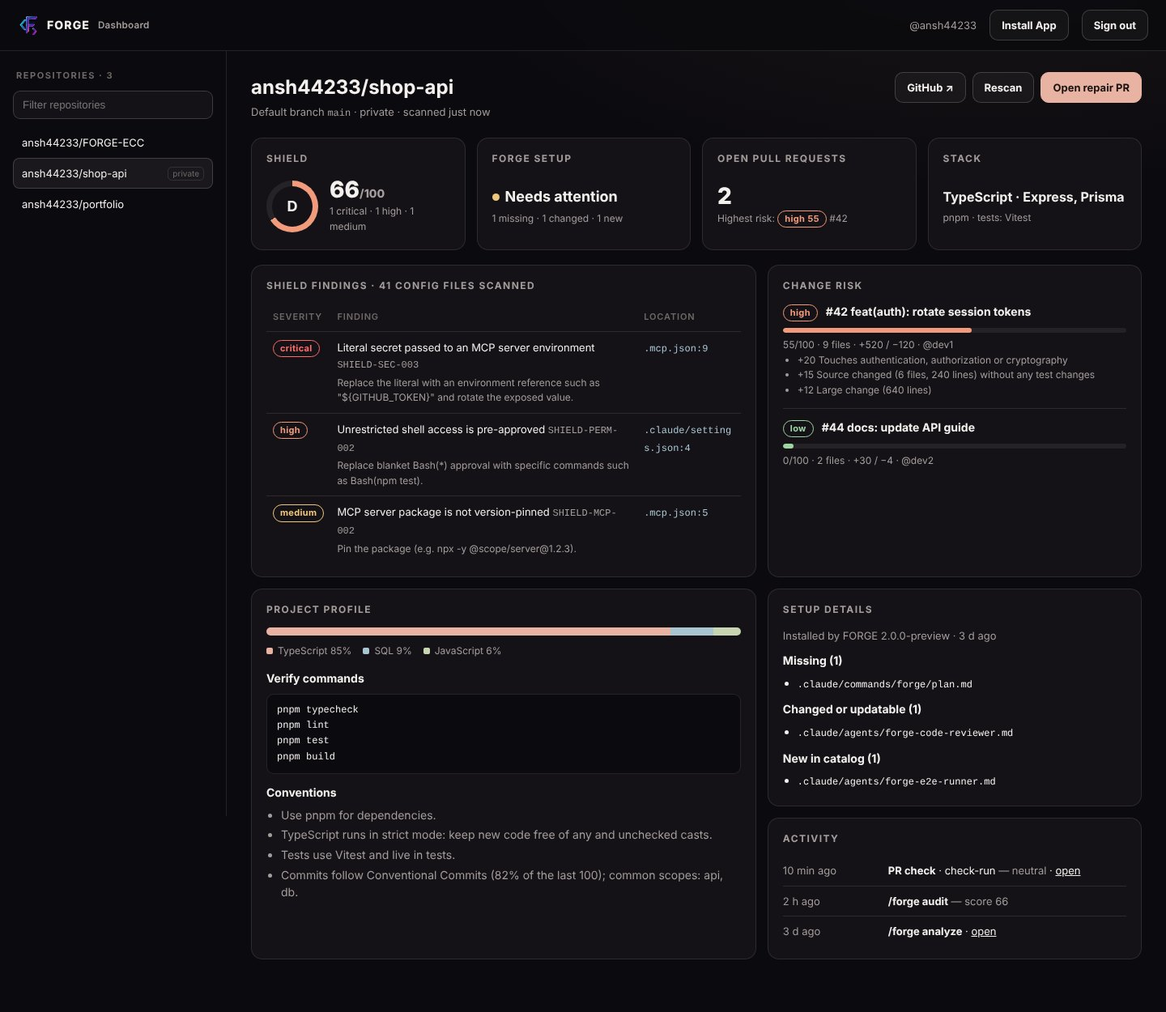
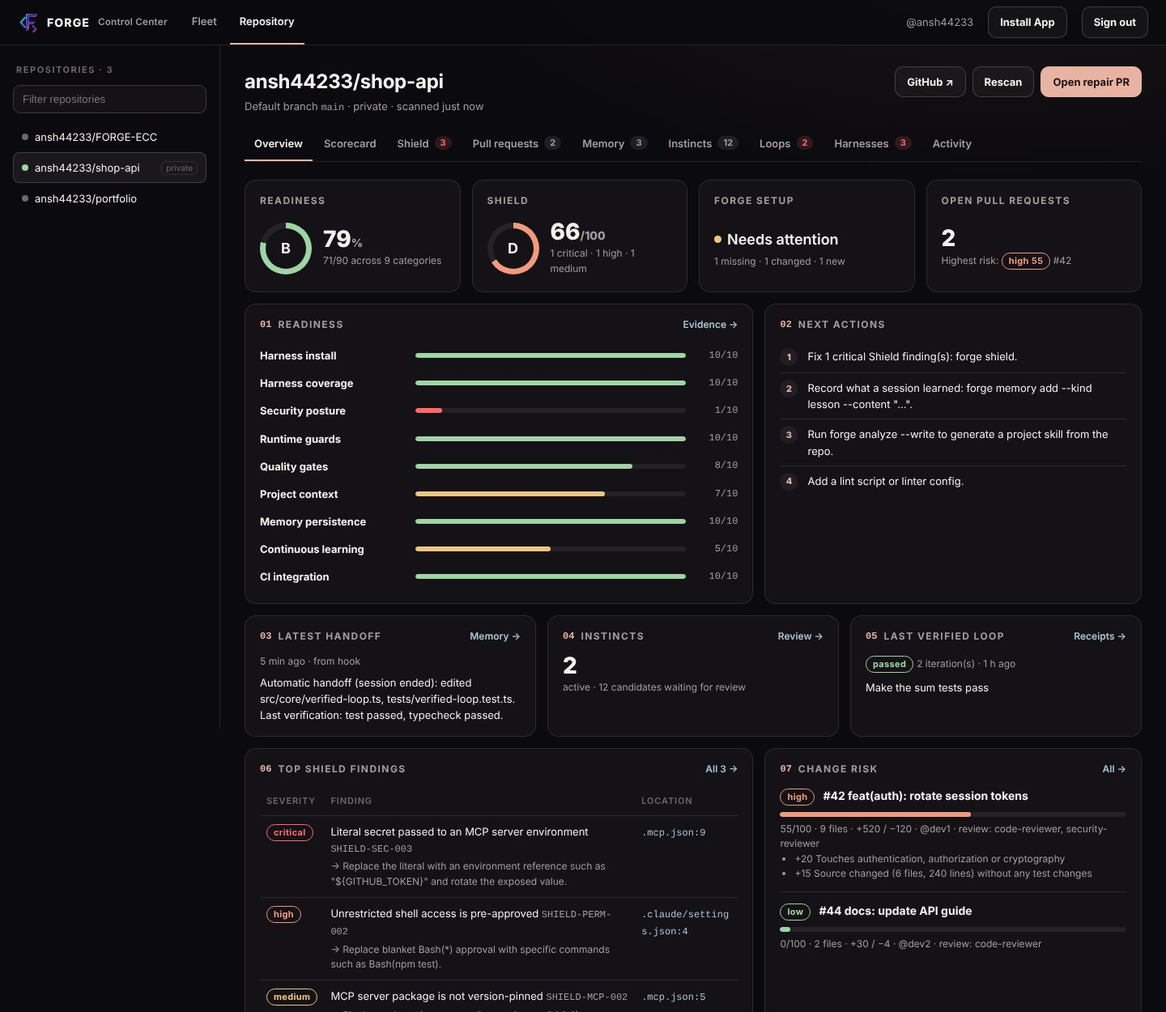
feat(v3): landing page refresh for FORGE 3.0
- Floating rounded nav with a live GitHub star count.
- Live GitHub stars, forks, release downloads and latest release under
  the catalog stats (falls back to placeholders when the API is
  unavailable).
- New 'Learn, loop and prove' section with real scorecard, instinct and
  verified-loop output.
- 'Verified, not claimed' comparison of typical agent setups vs FORGE.
- Ten harnesses in the tool row and platforms grid; Shield and Guard
  examples show the new rules.
- New Control Center screenshot, alternating section backgrounds and a
  light pricing section.

Claude-Session: https://claude.ai/code/session_017br8UhEu5cmXZumuQXKyPZ

diff --git a/public/index.html b/public/index.html
@@ -20,9 +20,12 @@ code,.mono{font-family:var(--mono)}
 .wrap{max-width:var(--max);margin:0 auto;padding:0 28px}
 
 /* Nav */
-.nav{position:fixed;inset:0 0 auto 0;z-index:20;transition:background .25s,border-color .25s;border-bottom:1px solid transparent}
-.nav.scrolled{background:rgba(11,10,14,.82);backdrop-filter:blur(14px);border-color:var(--line)}
-.nav .wrap{display:flex;align-items:center;gap:22px;height:68px}
+.nav{position:fixed;inset:14px 0 auto 0;z-index:20;pointer-events:none}
+.nav .wrap{display:flex;align-items:center;gap:22px;height:58px;pointer-events:auto;border:1px solid var(--line);border-radius:16px;background:rgba(14,12,17,.62);backdrop-filter:blur(16px) saturate(1.2);-webkit-backdrop-filter:blur(16px) saturate(1.2);transition:background .25s,border-color .25s,box-shadow .25s;max-width:calc(var(--max) - 0px);padding:0 10px 0 18px}
+.nav.scrolled .wrap{background:rgba(14,12,17,.86);border-color:var(--line2);box-shadow:0 12px 40px rgba(0,0,0,.35)}
+.stars{display:inline-flex;align-items:center;gap:7px}
+.stars svg{width:15px;height:15px}
+.stars b{font-variant-numeric:tabular-nums}
 .brand{display:flex;align-items:center;gap:10px;font-weight:800;letter-spacing:.12em;font-size:15px}
 .brand img{width:28px;height:28px}
 .links{display:flex;gap:22px;margin-left:auto;font-size:14px;color:var(--muted)}
@@ -69,11 +72,37 @@ i.logo span{display:none}
 .stat{border:1px solid var(--line);border-radius:14px;padding:18px 18px 16px;background:rgba(19,17,22,.76);backdrop-filter:blur(6px)}
 .stat b{display:block;font-size:30px;letter-spacing:-.02em;line-height:1.1}
 .stat span{font-size:12.5px;color:var(--muted)}
+.stat span a{text-decoration:underline;text-decoration-color:var(--line2);text-underline-offset:3px}
+.stats.live{grid-template-columns:repeat(4,minmax(0,1fr));margin-top:12px}
+.stats.live b{font-variant-numeric:tabular-nums}
 .footnote{font-size:12px;color:var(--faint);margin-top:12px}
 
 /* Sections */
 section.block{padding:96px 0}
 section.block+section.block{border-top:1px solid var(--line)}
+section.block.alt{background:linear-gradient(180deg,#100e14,#0d0c11)}
+section.block.light{background:#f1e9e4;color:#1b1416;border-top:0}
+section.block.light .label{color:#6d5c58}
+section.block.light h2 span{color:#b5644d}
+section.block.light .plan{background:#fffaf7;border-color:rgba(27,20,22,.12);color:#1b1416}
+section.block.light .plan .muted,section.block.light .plan li,section.block.light .price small{color:#5e504d}
+section.block.light .plan.featured{border-color:#c9775f;box-shadow:0 0 0 1px rgba(201,119,95,.3) inset,0 20px 50px rgba(120,60,40,.12)}
+section.block.light .plan li:before{color:#3f8f4a}
+section.block.light .btn{border-color:rgba(27,20,22,.2);background:transparent;color:#1b1416}
+section.block.light .btn:hover{border-color:#c9775f;background:rgba(201,119,95,.08)}
+section.block.light .btn.primary{background:#1b1416;color:#f8efe9;border-color:#1b1416}
+section.block.light .badge{color:#2f6f86;border-color:rgba(47,111,134,.4)}
+.vs{width:100%;border-collapse:collapse;font-size:15px}
+.vs th{text-align:left;font-size:12px;letter-spacing:.08em;text-transform:uppercase;color:var(--faint);font-weight:650;padding:0 18px 14px}
+.vs td{padding:18px;border-top:1px solid var(--line);vertical-align:top}
+.vs td:first-child{font-weight:650;width:26%}
+.vs td:nth-child(2){color:var(--muted);width:30%}
+.vs td:nth-child(3) b{color:var(--ink)}
+.vs td:nth-child(3){color:var(--muted)}
+.vs .yes{display:inline-grid;place-items:center;width:20px;height:20px;border-radius:50%;background:rgba(159,213,164,.14);color:var(--ok);font-size:12px;margin-right:8px;vertical-align:-3px}
+.vs .no{display:inline-grid;place-items:center;width:20px;height:20px;border-radius:50%;background:rgba(242,155,124,.12);color:var(--bad);font-size:12px;margin-right:8px;vertical-align:-3px}
+.cards3{display:grid;grid-template-columns:repeat(3,minmax(0,1fr));gap:18px}
+.cards3 .term{min-height:290px;font-size:12.5px}
 .label{font-size:13px;font-weight:600;color:var(--muted);margin:0 0 12px}
 h2{font-size:clamp(32px,4vw,50px);line-height:1.08;letter-spacing:-.03em;font-weight:720;margin:0 0 40px;max-width:820px}
 h2 span{color:var(--accent)}
@@ -177,9 +206,9 @@ footer{border-top:1px solid var(--line);padding:46px 0 60px;margin-top:40px;font
 .reveal.in{opacity:1;transform:none}
 @media (prefers-reduced-motion:reduce){.reveal{opacity:1;transform:none;transition:none}html{scroll-behavior:auto}}
 
-@media (max-width:1080px){.stats{grid-template-columns:repeat(3,minmax(0,1fr))}.grid4{grid-template-columns:repeat(2,minmax(0,1fr))}.showcase,.split{grid-template-columns:1fr}.platforms{grid-template-columns:repeat(2,minmax(0,1fr))}}
-@media (max-width:860px){.links,.navcta .hide-sm{display:none}.menu{display:inline-flex}.nav.open .links{display:flex;position:absolute;top:68px;left:0;right:0;flex-direction:column;gap:0;padding:8px 28px 18px;background:rgba(11,10,14,.96);border-bottom:1px solid var(--line)}.nav.open .links a{padding:10px 0}.navcta{margin-left:0}.cols3,.cards2,.pricing{grid-template-columns:1fr}.hero-art{inset:0;opacity:.35;-webkit-mask-image:linear-gradient(180deg,#000 40%,transparent 100%);mask-image:linear-gradient(180deg,#000 40%,transparent 100%)}.foot{grid-template-columns:1fr 1fr}}
-@media (max-width:560px){.wrap{padding:0 18px}.hero{padding-top:118px}.stats{grid-template-columns:repeat(2,minmax(0,1fr))}.platforms,.grid4{grid-template-columns:1fr}.final{padding:40px 24px}section.block{padding:72px 0}.navcta .btn:not(.primary){display:none}}
+@media (max-width:1080px){.cards3{grid-template-columns:1fr}.stats{grid-template-columns:repeat(3,minmax(0,1fr))}.grid4{grid-template-columns:repeat(2,minmax(0,1fr))}.showcase,.split{grid-template-columns:1fr}.platforms{grid-template-columns:repeat(2,minmax(0,1fr))}}
+@media (max-width:860px){.links,.navcta .hide-sm{display:none}.menu{display:inline-flex}.nav.open .links{display:flex;position:absolute;top:66px;left:28px;right:28px;border-radius:14px;border:1px solid var(--line2);flex-direction:column;gap:0;padding:8px 28px 18px;background:rgba(11,10,14,.96);border-bottom:1px solid var(--line)}.nav.open .links a{padding:10px 0}.navcta{margin-left:0}.cols3,.cards2,.pricing{grid-template-columns:1fr}.hero-art{inset:0;opacity:.35;-webkit-mask-image:linear-gradient(180deg,#000 40%,transparent 100%);mask-image:linear-gradient(180deg,#000 40%,transparent 100%)}.foot{grid-template-columns:1fr 1fr}}
+@media (max-width:560px){.stats.live{grid-template-columns:repeat(2,minmax(0,1fr))}.vs td,.vs th{padding-left:8px;padding-right:8px}.vs td:nth-child(2),.vs th:nth-child(2){display:none}.nav .wrap{margin:0 12px}.wrap{padding:0 18px}.hero{padding-top:118px}.stats{grid-template-columns:repeat(2,minmax(0,1fr))}.platforms,.grid4{grid-template-columns:1fr}.final{padding:40px 24px}section.block{padding:72px 0}.navcta .btn:not(.primary){display:none}}
 </style>
 </head>
 <body>
@@ -189,14 +218,14 @@ footer{border-top:1px solid var(--line);padding:46px 0 60px;margin-top:40px;font
     <a class="brand" href="/" aria-label="FORGE home"><img src="/forge-mark.svg" alt=""> FORGE</a>
     <nav class="links" aria-label="Primary">
       <a href="#github-app">GitHub App</a>
-      <a href="#toolkit">Toolkit</a>
+      <a href="#loop">Learn &amp; loop</a>
       <a href="#shield">Shield</a>
       <a href="#platforms">Platforms</a>
+      <a href="#why">Why FORGE</a>
       <a href="#pricing">Pricing</a>
-      <a href="#faq">FAQ</a>
     </nav>
     <div class="navcta">
-      <a class="btn sm hide-sm" href="https://github.com/ansh44233/FORGE-ECC">GitHub ↗</a>
+      <a class="btn sm hide-sm stars" href="https://github.com/ansh44233/FORGE-ECC" aria-label="FORGE on GitHub"><svg viewBox="0 0 16 16" fill="currentColor" aria-hidden="true"><path d="M8 .2a8 8 0 0 0-2.5 15.6c.4 0 .5-.2.5-.4v-1.5c-2.2.5-2.7-1-2.7-1-.4-.9-.9-1.2-.9-1.2-.7-.5.1-.5.1-.5.8.1 1.2.8 1.2.8.7 1.3 1.9.9 2.3.7.1-.5.3-.9.5-1.1-1.8-.2-3.6-.9-3.6-4 0-.9.3-1.6.8-2.1-.1-.2-.4-1 .1-2.1 0 0 .7-.2 2.2.8a7.6 7.6 0 0 1 4 0c1.5-1 2.2-.8 2.2-.8.4 1.1.2 1.9.1 2.1.5.6.8 1.3.8 2.1 0 3.1-1.9 3.7-3.6 3.9.3.3.6.8.6 1.5v2.2c0 .2.1.5.6.4A8 8 0 0 0 8 .2"/></svg><b data-live="stars">GitHub</b></a>
       <a class="btn sm hide-sm" href="/app/">Dashboard</a>
       <a class="btn sm primary" href="/api/github/install">Get App</a>
     </div>
@@ -219,13 +248,18 @@ footer{border-top:1px solid var(--line);padding:46px 0 60px;margin-top:40px;font
     <div class="cmd"><span class="p">$</span><code id="install-cmd">npm install -g https://github.com/ansh44233/FORGE-ECC/releases/download/v3.0.0/forge-engineering-workbench-3.0.0.tgz &amp;&amp; forge install . --hooks</code><button class="copy" id="copy" type="button">Copy</button></div>
     <div class="tools">
       <p>Install FORGE in your coding tool</p>
-      <div class="toolrow">
+      <div class="toolrow" id="toolrow">
         <span class="tool"><i><img data-logo src="/assets/logos/claude-code.svg" alt=""><span class="glyph"><svg viewBox="0 0 24 24" fill="none" stroke="currentColor" stroke-width="1.8" stroke-linecap="round" stroke-linejoin="round" aria-hidden="true"><rect x="3" y="4.5" width="18" height="15" rx="3"/><path d="M7.5 10l3 2.5-3 2.5"/><path d="M12.5 15.5h4"/></svg></span></i>Claude Code</span>
         <span class="tool"><i><img data-logo src="/assets/logos/codex.svg" alt=""><span class="glyph"><svg viewBox="0 0 24 24" fill="none" stroke="currentColor" stroke-width="1.8" stroke-linecap="round" stroke-linejoin="round" aria-hidden="true"><path d="M9 4.5c-2 0-3 1-3 3v2c0 1.3-.8 2.5-2 2.5 1.2 0 2 1.2 2 2.5v2c0 2 1 3 3 3"/><path d="M15 4.5c2 0 3 1 3 3v2c0 1.3.8 2.5 2 2.5-1.2 0-2 1.2-2 2.5v2c0 2-1 3-3 3"/></svg></span></i>Codex</span>
         <span class="tool"><i><img data-logo src="/assets/logos/cursor.svg" alt=""><span class="glyph"><svg viewBox="0 0 24 24" fill="none" stroke="currentColor" stroke-width="1.8" stroke-linecap="round" stroke-linejoin="round" aria-hidden="true"><path d="M5.5 3.5l13 7.2-5.6 1.6 3.4 6.2-2.6 1.4-3.4-6.2-4.8 3.6z"/></svg></span></i>Cursor</span>
         <span class="tool"><i><img data-logo src="/assets/logos/opencode.svg" alt=""><span class="glyph"><svg viewBox="0 0 24 24" fill="none" stroke="currentColor" stroke-width="1.8" stroke-linecap="round" stroke-linejoin="round" aria-hidden="true"><path d="M8 7l-5 5 5 5"/><path d="M16 7l5 5-5 5"/><path d="M13.5 4.5l-3 15"/></svg></span></i>OpenCode</span>
         <span class="tool"><i><img data-logo src="/assets/logos/gemini.svg" alt=""><span class="glyph"><svg viewBox="0 0 24 24" fill="none" stroke="currentColor" stroke-width="1.8" stroke-linecap="round" stroke-linejoin="round" aria-hidden="true"><rect x="3" y="4.5" width="18" height="15" rx="3"/><path d="M3 9h18"/><circle cx="6.3" cy="6.8" r=".4" fill="currentColor"/><circle cx="8.6" cy="6.8" r=".4" fill="currentColor"/><path d="M7 13.5h3.5M7 16h6"/></svg></span></i>Gemini CLI</span>
         <span class="tool"><i><img data-logo src="/assets/logos/github.svg" alt=""><span class="glyph"><svg viewBox="0 0 24 24" fill="none" stroke="currentColor" stroke-width="1.8" stroke-linecap="round" stroke-linejoin="round" aria-hidden="true"><circle cx="6.5" cy="5.5" r="2.2"/><circle cx="6.5" cy="18.5" r="2.2"/><circle cx="17.5" cy="8.5" r="2.2"/><path d="M6.5 7.7v8.6"/><path d="M17.5 10.7c0 3.5-4 3.8-9.4 5.9"/></svg></span></i>GitHub</span>
+        <span class="tool"><i><span class="glyph"><svg viewBox="0 0 24 24" aria-hidden="true"><text x="12" y="16.5" text-anchor="middle" font-family="Inter,system-ui,sans-serif" font-size="12" font-weight="800" fill="currentColor">Co</text></svg></span></i>Copilot</span>
+        <span class="tool"><i><span class="glyph"><svg viewBox="0 0 24 24" aria-hidden="true"><text x="12" y="16.5" text-anchor="middle" font-family="Inter,system-ui,sans-serif" font-size="12" font-weight="800" fill="currentColor">W</text></svg></span></i>Windsurf</span>
+        <span class="tool"><i><span class="glyph"><svg viewBox="0 0 24 24" aria-hidden="true"><text x="12" y="16.5" text-anchor="middle" font-family="Inter,system-ui,sans-serif" font-size="12" font-weight="800" fill="currentColor">K</text></svg></span></i>Kiro</span>
+        <span class="tool"><i><span class="glyph"><svg viewBox="0 0 24 24" aria-hidden="true"><text x="12" y="16.5" text-anchor="middle" font-family="Inter,system-ui,sans-serif" font-size="12" font-weight="800" fill="currentColor">Cl</text></svg></span></i>Cline</span>
+        <span class="tool"><i><span class="glyph"><svg viewBox="0 0 24 24" aria-hidden="true"><text x="12" y="16.5" text-anchor="middle" font-family="Inter,system-ui,sans-serif" font-size="12" font-weight="800" fill="currentColor">Z</text></svg></span></i>Zed</span>
       </div>
     </div>
     <div class="stats">
@@ -236,7 +270,13 @@ footer{border-top:1px solid var(--line);padding:46px 0 60px;margin-top:40px;font
       <div class="stat"><b>60</b><span>Shield security rules</span></div>
       <div class="stat"><b>10</b><span>Harnesses, one install</span></div>
     </div>
-    <p class="footnote">Counts come from the FORGE v3 catalog and rule set in the open-source repository.</p>
+    <div class="stats live" aria-live="polite">
+      <div class="stat"><b data-live="stars">—</b><span><a href="https://github.com/ansh44233/FORGE-ECC/stargazers">GitHub stars</a> ↗</span></div>
+      <div class="stat"><b data-live="forks">—</b><span><a href="https://github.com/ansh44233/FORGE-ECC/forks">GitHub forks</a> ↗</span></div>
+      <div class="stat"><b data-live="downloads">—</b><span><a href="https://github.com/ansh44233/FORGE-ECC/releases">Release package downloads</a> ↗</span></div>
+      <div class="stat"><b data-live="release">—</b><span><a href="https://github.com/ansh44233/FORGE-ECC/releases/latest">Latest release</a> ↗</span></div>
+    </div>
+    <p class="footnote">The first row comes from the FORGE v3 catalog and rule set. The second row loads live from the GitHub API.</p>
   </div>
 </section>
 
@@ -250,7 +290,7 @@ footer{border-top:1px solid var(--line);padding:46px 0 60px;margin-top:40px;font
           <div class="frame-bar"><i></i><i></i><i></i><span>forge-ecc.vercel.app/app</span></div>
           <img src="/assets/dashboard-preview.jpg" alt="FORGE dashboard showing a Shield score, setup health, pull request risk and project profile" loading="lazy" width="1440" height="860">
         </div>
-        <p class="caption">Hosted dashboard · shown with sample data</p>
+        <p class="caption">FORGE Control Center · readiness, Shield, memory, instincts and loop receipts · sample data</p>
       </div>
       <div class="side reveal">
         <div class="icon"><img src="/forge-mark.svg" alt=""></div>
@@ -262,6 +302,7 @@ footer{border-top:1px solid var(--line);padding:46px 0 60px;margin-top:40px;font
           <li><code>/forge audit</code><span>Shield report</span></li>
           <li><code>/forge risk</code><span>PR risk score</span></li>
           <li><code>/forge doctor</code><span>Setup health</span></li>
+          <li><code>/app</code><span>Control Center for every repo</span></li>
         </ul>
         <a class="btn primary" href="/api/github/install">Install the GitHub App ↗</a>
         <p class="note">Commands run only for collaborators with write access. FORGE reads file lists, manifests, commit subjects and agent configuration — not your source code.</p>
@@ -300,6 +341,72 @@ footer{border-top:1px solid var(--line);padding:46px 0 60px;margin-top:40px;font
   </div>
 </section>
 
+<section class="block alt" id="loop">
+  <div class="wrap">
+    <p class="label reveal">New in 3.0</p>
+    <h2 class="reveal">Learn, loop <span>and prove.</span></h2>
+    <div class="cards3">
+      <article class="card reveal">
+        <div class="term" aria-label="Example forge scorecard output">
+<div><span class="a">$</span> forge scorecard</div>
+<div>Scorecard <b>79</b>/90 · grade <b>B</b></div>
+<div class="c">──────────────────────────</div>
+<div>Harness install&nbsp;&nbsp;&nbsp; <span class="ok">██████████</span> 10</div>
+<div>Security posture&nbsp;&nbsp; <span class="ok">█████████</span><span class="c">░</span>&nbsp; 9</div>
+<div>Runtime guards&nbsp;&nbsp;&nbsp;&nbsp; <span class="ok">██████████</span> 10</div>
+<div>Project context&nbsp;&nbsp;&nbsp; <span class="w">███████</span><span class="c">░░░</span>&nbsp; 7</div>
+<div>Learning&nbsp;&nbsp;&nbsp;&nbsp;&nbsp;&nbsp;&nbsp;&nbsp;&nbsp;&nbsp; <span class="w">█████</span><span class="c">░░░░░</span>&nbsp; 5</div>
+<div class="c">→ 1. forge analyze --write</div>
+        </div>
+        <div class="body">
+          <p class="kicker">Scorecard</p>
+          <h3>A readiness score you can check.</h3>
+          <p class="muted">Nine categories from install health to CI. Every point cites its evidence, every missing point names the command that earns it, and <code>--min 75</code> turns it into a CI gate.</p>
+          <a class="more" href="https://github.com/ansh44233/FORGE-ECC#harness-scorecard-v3">How scoring works →</a>
+        </div>
+      </article>
+      <article class="card reveal">
+        <div class="term" aria-label="Example forge instinct learn output">
+<div><span class="a">$</span> forge instinct learn</div>
+<div>Learned <b>7</b> new instinct(s)</div>
+<div><span class="w">81%</span> When editing src/cli.ts:</div>
+<div>&nbsp;&nbsp;&nbsp;&nbsp;also review README.md <span class="c">(7 of 8 commits)</span></div>
+<div><span class="w">85%</span> When writing a commit message:</div>
+<div>&nbsp;&nbsp;&nbsp;&nbsp;use Conventional Commits with a scope</div>
+<div class="c">New instincts are candidates.</div>
+<div><span class="a">$</span> forge instinct promote inst-ff732cea60</div>
+<div><span class="ok">✓</span> Promoted 1 · reaches new sessions</div>
+        </div>
+        <div class="body">
+          <p class="kicker">Instincts</p>
+          <h3>Learning that waits for you.</h3>
+          <p class="muted">FORGE learns habits from git history, Guard denials and failed checks. Nothing reaches an agent until a person promotes it. <code>forge evolve</code> turns approved instincts into a skill.</p>
+          <a class="more" href="https://github.com/ansh44233/FORGE-ECC#instincts-and-continuous-learning-v3">Instincts →</a>
+        </div>
+      </article>
+      <article class="card reveal">
+        <div class="term" aria-label="Example forge loop output">
+<div><span class="a">$</span> forge loop start --check "npm test"</div>
+<div>baseline&nbsp; <span class="b">✗</span> npm test</div>
+<div>#1 claude <span class="ok">✓</span> npm test · 1 file</div>
+<div><span class="chip ok">passed</span>verified by FORGE</div>
+<div class="c">──────────────────────────</div>
+<div>#1 agent deleted tests/sum.test.js</div>
+<div>&nbsp;&nbsp;&nbsp;<span class="ok">✓</span> npm test <span class="c">(green, but…)</span></div>
+<div><span class="chip b">needs-review</span>checks were changed</div>
+        </div>
+        <div class="body">
+          <p class="kicker">Verified loop</p>
+          <h3>Done means FORGE checked.</h3>
+          <p class="muted">Runs Claude Code, Codex, Gemini or OpenCode until checks that FORGE runs itself pass. If the agent deletes or skips tests, or loosens configs or CI, the loop stops instead of counting a pass.</p>
+          <a class="more" href="https://github.com/ansh44233/FORGE-ECC#verified-loop-v3">Verified loop →</a>
+        </div>
+      </article>
+    </div>
+    <p class="note reveal">Output from real runs, shortened. The loop example uses test agents, including one written to delete a test.</p>
+  </div>
+</section>
+
 <section class="block" id="shield">
   <div class="wrap">
     <p class="label reveal">Shield &amp; Guard</p>
@@ -313,13 +420,13 @@ footer{border-top:1px solid var(--line);padding:46px 0 60px;margin-top:40px;font
 <div><span class="chip b">critical</span>Literal secret in MCP server env <span class="c">.mcp.json:9</span></div>
 <div><span class="chip b">high</span>Bash(*) pre-approved <span class="c">.claude/settings.json:4</span></div>
 <div><span class="chip w">medium</span>Unpinned npx MCP package <span class="c">.mcp.json:5</span></div>
-<div><span class="chip w">high</span>Hidden bidi Unicode in <span class="c">AGENTS.md:3</span></div>
+<div><span class="chip b">critical</span>AI agent workflow anyone can trigger <span class="c">agent.yml:8</span></div>
 <div class="c">→ forge shield . --fix  ·  --sarif shield.sarif  ·  --fail-on high</div>
         </div>
         <div class="body">
           <p class="kicker">FORGE Shield</p>
           <h3>Know what your agents can reach.</h3>
-          <p class="muted">Scores agent configuration 0–100 across permissions, hooks, MCP servers, hidden prompt injection, secrets and CI workflows. SARIF for code scanning, a CI gate and safe auto-fixes.</p>
+          <p class="muted">60 rules across 11 tools: permissions, hooks, MCP servers, hidden prompt injection, secrets and CI. It also flags AI-agent workflows that anyone can trigger from a comment. Outputs SARIF, a CI gate and safe auto-fixes.</p>
           <a class="more" href="https://github.com/ansh44233/FORGE-ECC#forge-shield--agent-harness-security-20">Shield rules →</a>
         </div>
       </article>
@@ -332,8 +439,10 @@ footer{border-top:1px solid var(--line);padding:46px 0 60px;margin-top:40px;font
 <div>&nbsp;&nbsp;<span class="chip w">ask</span>Force-push rewrites remote history</div>
 <div><span class="a">Edit</span> .claude/settings.json</div>
 <div>&nbsp;&nbsp;<span class="chip w">ask</span>Agent is changing its own permissions</div>
-<div><span class="a">Bash</span> npm test</div>
-<div>&nbsp;&nbsp;<span class="chip ok">allow</span></div>
+<div><span class="a">Bash</span> git commit --no-verify</div>
+<div>&nbsp;&nbsp;<span class="chip b">deny</span>Skips the repo's git hooks</div>
+<div><span class="a">Prompt</span> "deploy with sk-ant-…"</div>
+<div>&nbsp;&nbsp;<span class="chip b">block</span>Live credential in prompt</div>
         </div>
         <div class="body">
           <p class="kicker">FORGE Guard</p>
@@ -347,7 +456,7 @@ footer{border-top:1px solid var(--line);padding:46px 0 60px;margin-top:40px;font
   </div>
 </section>
 
-<section class="block" id="memory">
+<section class="block alt" id="memory">
   <div class="wrap split">
     <div class="reveal">
       <p class="label">Memory</p>
@@ -388,12 +497,17 @@ forge_memory_search · forge_memory_add</div>
       <div class="platform reveal"><div class="top"><i><img data-logo src="/assets/logos/opencode.svg" alt=""><span class="glyph"><svg viewBox="0 0 24 24" fill="none" stroke="currentColor" stroke-width="1.8" stroke-linecap="round" stroke-linejoin="round" aria-hidden="true"><path d="M8 7l-5 5 5 5"/><path d="M16 7l5 5-5 5"/><path d="M13.5 4.5l-3 15"/></svg></span></i><b>OpenCode</b><span class="type">Agents + commands</span></div><p>Subagents and commands in <code>.opencode/</code> plus <code>AGENTS.md</code></p></div>
       <div class="platform reveal"><div class="top"><i><img data-logo src="/assets/logos/gemini.svg" alt=""><span class="glyph"><svg viewBox="0 0 24 24" fill="none" stroke="currentColor" stroke-width="1.8" stroke-linecap="round" stroke-linejoin="round" aria-hidden="true"><rect x="3" y="4.5" width="18" height="15" rx="3"/><path d="M3 9h18"/><circle cx="6.3" cy="6.8" r=".4" fill="currentColor"/><circle cx="8.6" cy="6.8" r=".4" fill="currentColor"/><path d="M7 13.5h3.5M7 16h6"/></svg></span></i><b>Gemini CLI</b><span class="type">Commands</span></div><p>TOML commands in <code>.gemini/commands/forge/</code> and <code>GEMINI.md</code></p></div>
       <div class="platform reveal"><div class="top"><i><img data-logo src="/assets/logos/github.svg" alt=""><span class="glyph"><svg viewBox="0 0 24 24" fill="none" stroke="currentColor" stroke-width="1.8" stroke-linecap="round" stroke-linejoin="round" aria-hidden="true"><circle cx="6.5" cy="5.5" r="2.2"/><circle cx="6.5" cy="18.5" r="2.2"/><circle cx="17.5" cy="8.5" r="2.2"/><path d="M6.5 7.7v8.6"/><path d="M17.5 10.7c0 3.5-4 3.8-9.4 5.9"/></svg></span></i><b>GitHub</b><span class="type">App + checks</span></div><p>Setup pull requests, PR risk checks, SARIF and the <code>shield</code> Action</p></div>
+      <div class="platform reveal"><div class="top"><i><span class="glyph"><svg viewBox="0 0 24 24" aria-hidden="true"><text x="12" y="16.5" text-anchor="middle" font-family="Inter,system-ui,sans-serif" font-size="12" font-weight="800" fill="currentColor">Co</text></svg></span></i><b>GitHub Copilot</b><span class="type">Native</span></div><p><code>.github/instructions</code> with <code>applyTo</code>, prompt files and custom agents</p></div>
+      <div class="platform reveal"><div class="top"><i><span class="glyph"><svg viewBox="0 0 24 24" aria-hidden="true"><text x="12" y="16.5" text-anchor="middle" font-family="Inter,system-ui,sans-serif" font-size="12" font-weight="800" fill="currentColor">W</text></svg></span></i><b>Windsurf</b><span class="type">Rules + workflows</span></div><p><code>.windsurf/rules</code> with always-on, glob and model triggers, plus workflows</p></div>
+      <div class="platform reveal"><div class="top"><i><span class="glyph"><svg viewBox="0 0 24 24" aria-hidden="true"><text x="12" y="16.5" text-anchor="middle" font-family="Inter,system-ui,sans-serif" font-size="12" font-weight="800" fill="currentColor">K</text></svg></span></i><b>Kiro</b><span class="type">Steering</span></div><p><code>.kiro/steering</code> with always, fileMatch and manual inclusion</p></div>
+      <div class="platform reveal"><div class="top"><i><span class="glyph"><svg viewBox="0 0 24 24" aria-hidden="true"><text x="12" y="16.5" text-anchor="middle" font-family="Inter,system-ui,sans-serif" font-size="12" font-weight="800" fill="currentColor">Cl</text></svg></span></i><b>Cline</b><span class="type">Rules + workflows</span></div><p><code>.clinerules/</code> scoped rules and <code>.clinerules/workflows</code></p></div>
+      <div class="platform reveal"><div class="top"><i><span class="glyph"><svg viewBox="0 0 24 24" aria-hidden="true"><text x="12" y="16.5" text-anchor="middle" font-family="Inter,system-ui,sans-serif" font-size="12" font-weight="800" fill="currentColor">Z</text></svg></span></i><b>Zed</b><span class="type">AGENTS.md</span></div><p>Shared harness and a managed <code>AGENTS.md</code> block for Zed's agent</p></div>
     </div>
-    <p class="note reveal">Every file is hashed in <code>.forge/install-state.json</code>. FORGE never overwrites your edits, and <code>forge uninstall</code> restores the project.</p>
+    <p class="note reveal">The first five tools are installed by default. The others are added when FORGE finds them in your repository. <code>forge harnesses</code> shows each tool's tested support level. Every file is hashed in <code>.forge/install-state.json</code>. FORGE never overwrites your edits, and <code>forge uninstall</code> restores the project.</p>
   </div>
 </section>
 
-<section class="block" id="intelligence">
+<section class="block alt" id="intelligence">
   <div class="wrap">
     <p class="label reveal">Codebase intelligence</p>
     <h2 class="reveal">Understand before <span>you change.</span></h2>
@@ -406,7 +520,27 @@ forge_memory_search · forge_memory_add</div>
   </div>
 </section>
 
-<section class="block" id="pricing">
+<section class="block" id="why">
+  <div class="wrap">
+    <p class="label reveal">Why FORGE</p>
+    <h2 class="reveal">Verified, <span>not claimed.</span></h2>
+    <div class="panel reveal" style="padding:22px 8px 6px">
+      <table class="vs">
+        <thead><tr><th>When…</th><th>Typical agent setup</th><th>With FORGE</th></tr></thead>
+        <tbody>
+          <tr><td>An agent says “done”</td><td><span class="no">✕</span>You trust the summary</td><td><span class="yes">✓</span><b>FORGE re-runs your checks</b>, and the stop hook and <code>forge loop</code> keep a receipt</td></tr>
+          <tr><td>Tests go green by deleting tests</td><td><span class="no">✕</span>Counted as a pass</td><td><span class="yes">✓</span><b>The loop stops with needs-review</b> when tests are deleted or skipped, or configs, scripts or CI change</td></tr>
+          <tr><td>The agent learns something</td><td><span class="no">✕</span>Saved and trusted automatically</td><td><span class="yes">✓</span><b>Candidate until a person promotes it</b>, with evidence and confidence attached</td></tr>
+          <tr><td>You install a toolkit</td><td><span class="no">✕</span>Files copied over your edits</td><td><span class="yes">✓</span><b>Every file is hashed</b>, your edits are never overwritten, and uninstall restores the project</td></tr>
+          <tr><td>Someone comments on an issue</td><td><span class="no">✕</span>A CI agent may run with secrets</td><td><span class="yes">✓</span><b>Shield flags it as critical</b> unless the workflow checks who triggered it</td></tr>
+          <tr><td>You compare repositories</td><td><span class="no">✕</span>Vibes</td><td><span class="yes">✓</span><b>A deterministic scorecard</b> with evidence for every point, across the fleet</td></tr>
+        </tbody>
+      </table>
+    </div>
+  </div>
+</section>
+
+<section class="block light" id="pricing">
   <div class="wrap">
     <p class="label reveal">Pricing</p>
     <h2 class="reveal">Start free. <span>Stay in control.</span></h2>
@@ -415,14 +549,14 @@ forge_memory_search · forge_memory_add</div>
         <div class="name">Open source</div>
         <div class="price">$0</div>
         <p class="muted">MIT licensed. Runs on your machine.</p>
-        <ul><li>Installer and full catalog</li><li>FORGE Shield and Guard hooks</li><li>Layered memory and MCP server</li><li>Local dashboard and CLI</li></ul>
+        <ul><li>Installer for 10 harnesses</li><li>Shield (60 rules) and Guard hooks</li><li>Memory, instincts and the verified loop</li><li>Scorecard, cost tracking and status line</li></ul>
         <a class="btn" href="https://github.com/ansh44233/FORGE-ECC">Get it on GitHub ↗</a>
       </div>
       <div class="plan featured reveal">
         <div class="name">GitHub App</div>
-        <div class="price">$0 <small>during 2.0</small></div>
+        <div class="price">$0 <small>during 3.0</small></div>
         <p class="muted">Hosted checks for your repositories.</p>
-        <ul><li>Setup and repair pull requests</li><li>PR risk score and Shield annotations</li><li>Hosted dashboard</li><li>Public and private repositories</li></ul>
+        <ul><li>Setup and repair pull requests</li><li>PR risk score and Shield annotations</li><li>Control Center: fleet, scorecard, memory, loops</li><li>Public and private repositories</li></ul>
         <a class="btn primary" href="/api/github/install">Install the GitHub App ↗</a>
       </div>
       <div class="plan reveal">
@@ -441,7 +575,8 @@ forge_memory_search · forge_memory_add</div>
     <p class="label reveal">FAQ</p>
     <h2 class="reveal">Questions before you begin.</h2>
     <div class="faq reveal">
-      <details><summary>What is FORGE?</summary><p>An open-source agent harness. It installs specialist agents, skills, commands and rules into Claude Code, Cursor, Codex, OpenCode and Gemini, guards risky actions with runtime hooks, scans agent configuration with Shield, and checks pull requests through a GitHub App.</p></details>
+      <details><summary>What is FORGE?</summary><p>An open-source agent harness. It installs specialist agents, skills, commands and rules into 10 coding tools, including Claude Code, Cursor, Codex, OpenCode, Gemini, Copilot, Windsurf, Kiro, Cline and Zed. It also guards risky actions with runtime hooks, scans agent configuration with Shield, learns approved project instincts, runs verified agent loops and checks pull requests through a GitHub App.</p></details>
+      <details><summary>How is the verified loop different from letting an agent run?</summary><p>FORGE decides when the work is done. Your agent never does. FORGE runs your checks itself after every iteration and saves a receipt. If the agent deletes or skips tests, loosens lint or type configs, or edits package scripts or CI, the loop stops for review instead of reporting a pass.</p></details>
       <details><summary>Does FORGE change my code?</summary><p>No. <code>forge install</code> writes only FORGE-managed agent files and never overwrites your edits. The GitHub App proposes changes as pull requests you review.</p></details>
       <details><summary>What does the GitHub App read?</summary><p>The file list, root manifests, commit subjects, pull request file lists and agent configuration files. It does not download or store your source code, and commands run only for collaborators with write access.</p></details>
       <details><summary>Can I use FORGE without an account?</summary><p>Yes. The CLI, installer, Shield, hooks, memory and local dashboard work entirely on your machine. The GitHub App and hosted dashboard are optional.</p></details>
@@ -451,7 +586,7 @@ forge_memory_search · forge_memory_add</div>
   </div>
 </section>
 
-<section class="block" style="border-top:0;padding-top:24px">
+<section class="block" style="border-top:0;padding-top:72px">
   <div class="wrap">
     <div class="final reveal">
       <h2>Give your agents <span>a verified way to work.</span></h2>
@@ -469,7 +604,7 @@ forge_memory_search · forge_memory_add</div>
   <div class="wrap">
     <div class="foot">
       <div><a class="brand" href="/" style="display:flex"><img src="/forge-mark.svg" alt=""> FORGE</a><p style="margin-top:14px;max-width:300px">The verified layer for your coding agents. Open source, local-first, evidence by default.</p></div>
-      <div><h4>Product</h4><a href="#github-app">GitHub App</a><a href="/app/">Dashboard</a><a href="#shield">Shield</a><a href="#platforms">Platforms</a></div>
+      <div><h4>Product</h4><a href="#github-app">GitHub App</a><a href="/app/">Control Center</a><a href="#loop">Scorecard, instincts and loop</a><a href="#shield">Shield</a><a href="#platforms">Platforms</a></div>
       <div><h4>Open source</h4><a href="https://github.com/ansh44233/FORGE-ECC">Repository</a><a href="https://github.com/ansh44233/FORGE-ECC/blob/main/CHANGELOG.md">Changelog</a><a href="https://github.com/ansh44233/FORGE-ECC/issues">Issues</a><a href="https://github.com/ansh44233/FORGE-ECC/blob/main/LICENSE">MIT License</a></div>
       <div><h4>Docs</h4><a href="https://github.com/ansh44233/FORGE-ECC#quick-start">Quick start</a><a href="https://github.com/ansh44233/FORGE-ECC/blob/main/docs/integrations/github-app.md">GitHub App</a><a href="https://github.com/ansh44233/FORGE-ECC/blob/main/docs/integrations/claude-code.md">Claude Code</a><a href="https://github.com/ansh44233/FORGE-ECC/blob/main/SECURITY.md">Security</a></div>
     </div>
@@ -506,6 +641,19 @@ forge_memory_search · forge_memory_add</div>
     if (img.complete) show(); else img.addEventListener("load", show, { once: true });
     img.addEventListener("error", () => img.remove(), { once: true });
   });
+
+  // Live GitHub numbers (unauthenticated API; values stay "—" if it is rate-limited or offline).
+  const fmt = n => n >= 1e6 ? (n / 1e6).toFixed(1).replace(/\.0$/, "") + "m" : n >= 1e4 ? (n / 1e3).toFixed(1).replace(/\.0$/, "") + "k" : n.toLocaleString("en-US");
+  const set = (key, value) => document.querySelectorAll('[data-live="' + key + '"]').forEach(el => { el.textContent = value; });
+  const gh = path => fetch("https://api.github.com/repos/ansh44233/FORGE-ECC" + path, { headers: { Accept: "application/vnd.github+json" } }).then(r => r.ok ? r.json() : Promise.reject(r.status));
+  gh("").then(repo => { set("stars", fmt(repo.stargazers_count)); set("forks", fmt(repo.forks_count)); }).catch(() => set("stars", "GitHub"));
+  gh("/releases?per_page=30").then(releases => {
+    if (!Array.isArray(releases) || !releases.length) return;
+    const total = releases.reduce((sum, r) => sum + (r.assets || []).reduce((s, a) => s + (a.download_count || 0), 0), 0);
+    set("downloads", fmt(total));
+    const latest = releases.find(r => !r.draft && !r.prerelease);
+    if (latest) set("release", String(latest.tag_name).replace(/^v/, "v").slice(0, 12));
+  }).catch(() => undefined);
 
   const items = document.querySelectorAll(".reveal");
   if (!("IntersectionObserver" in window) || matchMedia("(prefers-reduced-motion: reduce)").matches) {
